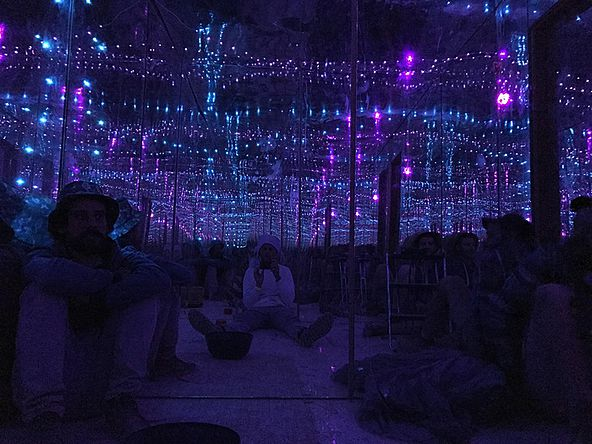
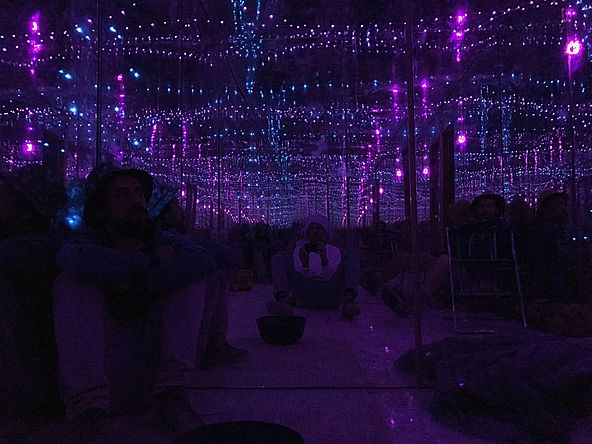
updated art for 303

diff --git a/data/2018/images/arts/index.js b/data/2018/images/arts/index.js
@@ -60,7 +60,7 @@ const IMAGES = {
   299: [require('./299/art1.jpg'), require('./299/art2.jpg'), require('./299/art3.jpg'), require('./299/art4.jpg')],
   300: [require('./300/art1.jpg'), require('./300/art2.jpg'), require('./300/art3.jpg'), require('./300/art4.jpg'), require('./300/art5.jpg'), require('./300/art6.jpg')],
   302: [require('./302/art1.jpg'), require('./302/art2.jpg'), require('./302/art3.jpg')],
-  303: [require('./303/art1.jpg'), require('./303/art2.jpg'), require('./303/art3.jpg'), require('./303/art4.jpg'), require('./303/art5.jpg'), require('./303/art6.jpg'), require('./303/art7.jpg'), require('./303/art8.jpg'), require('./303/art9.jpg'), require('./303/art10.jpg'), require('./303/art11.jpg'), require('./303/art12.jpg')],
+  303: [require('./303/art1.jpg')],
   304: [require('./304/art1.jpg'), require('./304/art2.jpg')],
   305: [require('./305/art1.jpg'), require('./305/art2.jpg'), require('./305/art3.jpg'), require('./305/art4.jpg')],
   306: [require('./306/art1.jpg'), require('./306/art2.jpg'), require('./306/art3.jpg'), require('./306/art4.jpg'), require('./306/art5.jpg'), require('./306/art6.jpg')],
